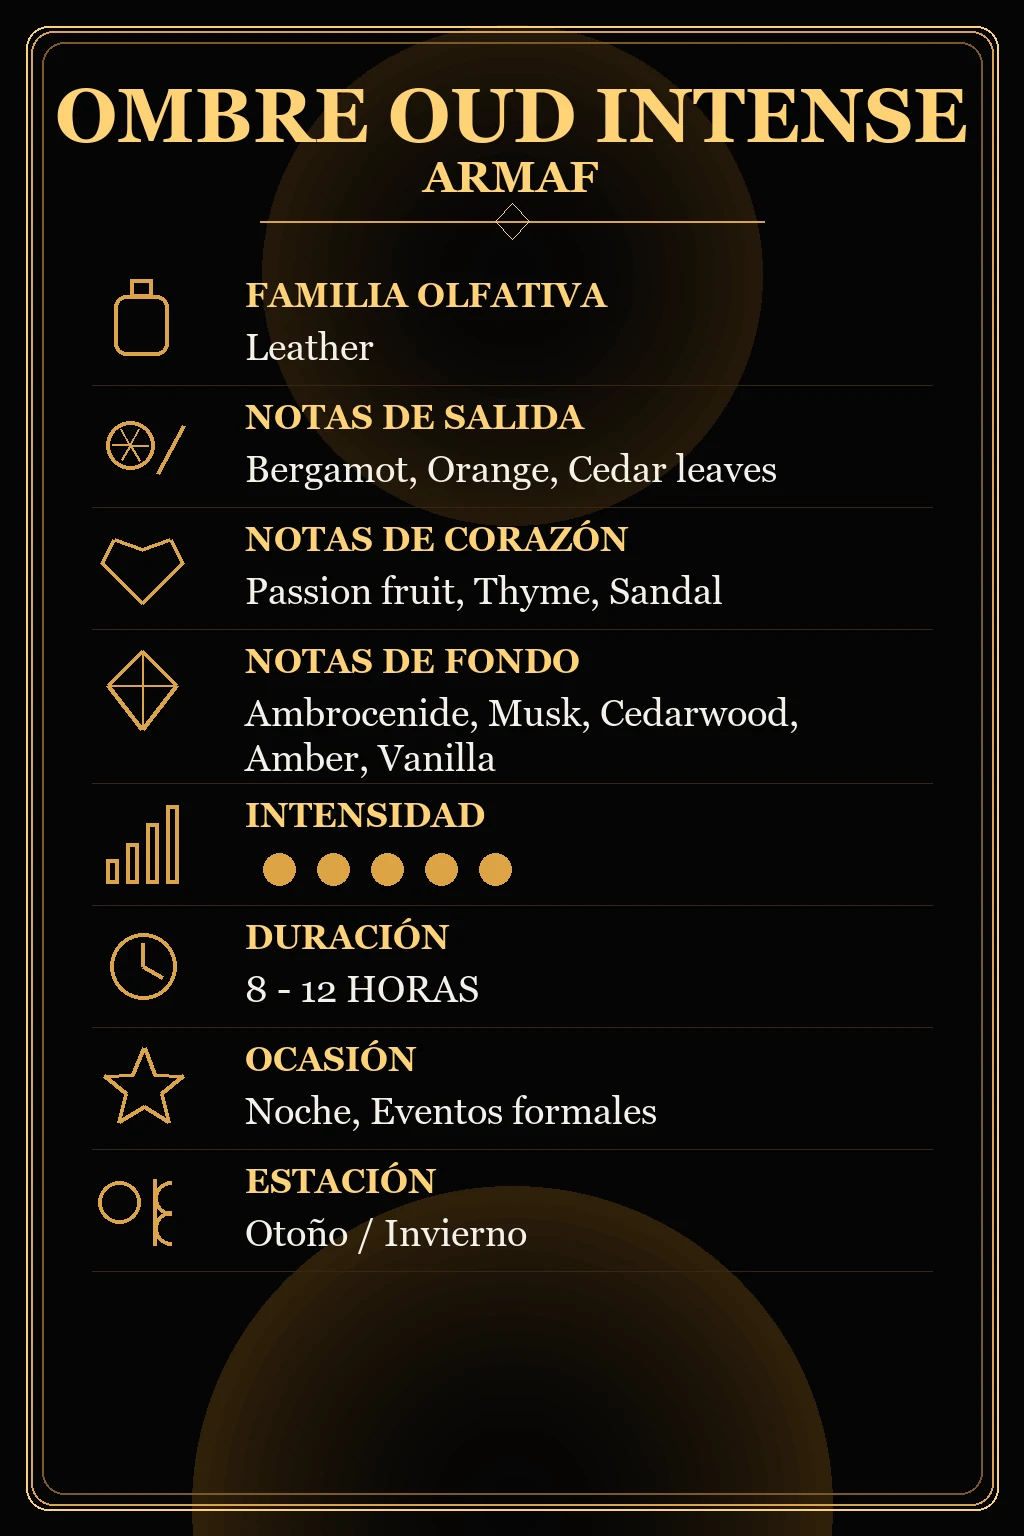
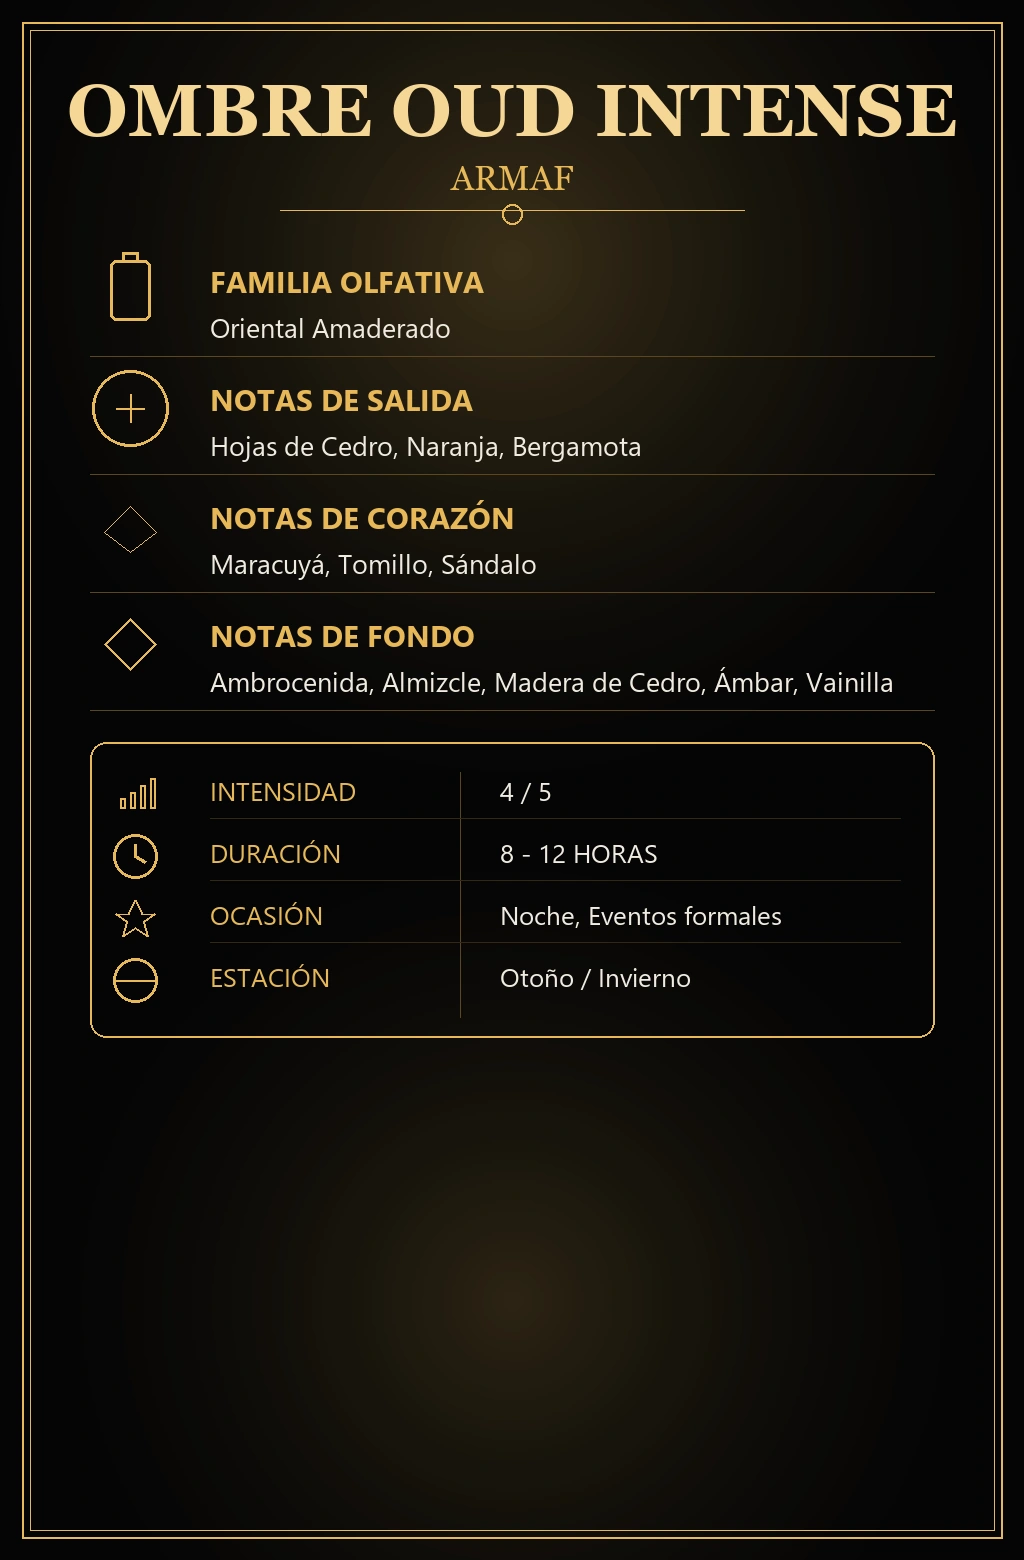
fix: corregir imagen de caracteristicas de Ombre Oud Intense
La imagen decia familia "Leather" y notas en ingles que no coincidian
con los datos en espanol del producto (Oriental Amaderado). Se
regenera con el desglose real verificado en Fragrantica, traducido.

diff --git a/tools/generate-club-de-nuit-ombre-oud-intense-characteristics.py b/tools/generate-club-de-nuit-ombre-oud-intense-characteristics.py
@@ -1,0 +1,149 @@
+from pathlib import Path
+from PIL import Image, ImageDraw, ImageFont
+
+
+ROOT = Path(__file__).resolve().parents[1]
+OUT = ROOT / "src/main/resources/static/img/arabe/car-club-de-nuit-ombre-oud-intense.webp"
+
+W, H = 1024, 1560
+BLACK = (5, 5, 5)
+GOLD = (231, 184, 87)
+GOLD_SOFT = (245, 214, 150)
+GOLD_DARK = (92, 70, 28)
+WHITE = (240, 235, 225)
+
+FONT_DIR = Path("C:/Windows/Fonts")
+GEORGIA = FONT_DIR / "georgia.ttf"
+GEORGIA_BOLD = FONT_DIR / "georgiab.ttf"
+SEGOE = FONT_DIR / "segoeui.ttf"
+SEGOE_BOLD = FONT_DIR / "segoeuib.ttf"
+
+
+def font(path: Path, size: int):
+    return ImageFont.truetype(str(path), size)
+
+
+def centered(draw, text, y, fnt, fill=WHITE):
+    bbox = draw.textbbox((0, 0), text, font=fnt)
+    draw.text(((W - (bbox[2] - bbox[0])) / 2, y), text, font=fnt, fill=fill)
+
+
+def wrap_text(draw, text, fnt, max_width):
+    lines = []
+    for raw in text.split("\n"):
+        words = raw.split()
+        line = ""
+        for word in words:
+            test = f"{line} {word}".strip()
+            if draw.textbbox((0, 0), test, font=fnt)[2] <= max_width:
+                line = test
+            else:
+                if line:
+                    lines.append(line)
+                line = word
+        if line:
+            lines.append(line)
+    return lines
+
+
+def draw_icon(draw, kind, cx, cy, small=False):
+    r = 22 if small else 38
+    if kind == "family":
+        draw.rounded_rectangle((cx - 20, cy - 30, cx + 20, cy + 30), radius=6, outline=GOLD, width=3)
+        draw.rectangle((cx - 8, cy - 38, cx + 8, cy - 28), outline=GOLD, width=3)
+    elif kind == "top":
+        draw.ellipse((cx - r, cy - r, cx + r, cy + r), outline=GOLD, width=3)
+        draw.line((cx - 14, cy, cx + 14, cy), fill=GOLD, width=2)
+        draw.line((cx, cy - 14, cx, cy + 14), fill=GOLD, width=2)
+    elif kind == "heart":
+        draw.polygon([(cx, cy - 20), (cx + 26, cy + 6), (cx, cy + 26), (cx - 26, cy + 6)], outline=GOLD)
+    elif kind == "base":
+        draw.polygon([(cx, cy - 26), (cx + 26, cy), (cx, cy + 26), (cx - 26, cy)], outline=GOLD, width=3)
+    elif kind == "bars":
+        for i, h in enumerate([10, 16, 23, 30]):
+            x = cx - 15 + i * 10
+            draw.rectangle((x, cy + 14 - h, x + 5, cy + 14), outline=GOLD, width=2)
+    elif kind == "clock":
+        draw.ellipse((cx - r, cy - r, cx + r, cy + r), outline=GOLD, width=3)
+        draw.line((cx, cy, cx, cy - 12), fill=GOLD, width=3)
+        draw.line((cx, cy, cx + 10, cy + 6), fill=GOLD, width=3)
+    elif kind == "star":
+        pts = [(cx, cy - 18), (cx + 6, cy - 5), (cx + 19, cy - 4), (cx + 8, cy + 4), (cx + 12, cy + 18),
+               (cx, cy + 10), (cx - 12, cy + 18), (cx - 8, cy + 4), (cx - 19, cy - 4), (cx - 6, cy - 5)]
+        draw.line(pts + [pts[0]], fill=GOLD, width=2)
+    elif kind == "season":
+        draw.ellipse((cx - r, cy - r, cx + r, cy + r), outline=GOLD, width=3)
+        draw.line((cx - r, cy, cx + r, cy), fill=GOLD, width=2)
+
+
+def line_block(draw, y, icon, title, body, title_font, body_font):
+    draw_icon(draw, icon, 130, y + 30)
+    draw.text((210, y), title, font=title_font, fill=GOLD)
+    yy = y + 48
+    for line in wrap_text(draw, body, body_font, 760):
+        draw.text((210, yy), line, font=body_font, fill=WHITE)
+        yy += 36
+    draw.line((90, yy + 12, 934, yy + 12), fill=GOLD_DARK, width=1)
+    return yy + 34
+
+
+def main():
+    img = Image.new("RGB", (W, H), BLACK)
+
+    glow = Image.new("RGBA", (W, H), (0, 0, 0, 0))
+    gd = ImageDraw.Draw(glow)
+    for r in range(560, 0, -10):
+        alpha = int(60 * (1 - r / 560) ** 1.6)
+        gd.ellipse((W // 2 - r, 260 - r, W // 2 + r, 260 + r), fill=(GOLD[0], GOLD[1], GOLD[2], alpha))
+    for r in range(480, 0, -10):
+        alpha = int(45 * (1 - r / 480) ** 1.6)
+        gd.ellipse((W // 2 - r, H - 260 - r, W // 2 + r, H - 260 + r), fill=(GOLD[0], GOLD[1], GOLD[2], alpha))
+    img = Image.alpha_composite(img.convert("RGBA"), glow).convert("RGB")
+    draw = ImageDraw.Draw(img)
+
+    draw.rectangle((22, 22, W - 22, H - 22), outline=GOLD, width=2)
+    draw.rectangle((30, 30, W - 30, H - 30), outline=GOLD, width=1)
+
+    title_font = font(GEORGIA_BOLD, 74)
+    brand_font = font(GEORGIA, 34)
+    h_font = font(SEGOE_BOLD, 30)
+    b_font = font(SEGOE, 27)
+    small_font = font(SEGOE, 26)
+
+    centered(draw, "OMBRE OUD INTENSE", 68, title_font, GOLD_SOFT)
+    centered(draw, "ARMAF", 158, brand_font, GOLD)
+    draw.line((280, 210, 744, 210), fill=GOLD, width=1)
+    draw.ellipse((502, 204, 522, 224), outline=GOLD, width=2)
+
+    y = 260
+    y = line_block(draw, y, "family", "FAMILIA OLFATIVA", "Oriental Amaderado", h_font, b_font)
+    y = line_block(draw, y, "top", "NOTAS DE SALIDA", "Hojas de Cedro, Naranja, Bergamota", h_font, b_font)
+    y = line_block(draw, y, "heart", "NOTAS DE CORAZÓN", "Maracuyá, Tomillo, Sándalo", h_font, b_font)
+    y = line_block(draw, y, "base", "NOTAS DE FONDO", "Ambrocenida, Almizcle, Madera de Cedro, Ámbar, Vainilla", h_font, b_font)
+
+    panel = (90, y + 10, 934, y + 305)
+    draw.rounded_rectangle(panel, radius=16, outline=GOLD, width=2)
+    draw.line((460, panel[1] + 30, 460, panel[3] - 20), fill=GOLD_DARK, width=1)
+
+    rows = [
+        ("bars", "INTENSIDAD", "4 / 5"),
+        ("clock", "DURACIÓN", "8 - 12 HORAS"),
+        ("star", "OCASIÓN", "Noche, Eventos formales"),
+        ("season", "ESTACIÓN", "Otoño / Invierno"),
+    ]
+    yy = panel[1] + 30
+    for icon, label, value in rows:
+        draw_icon(draw, icon, 135, yy + 22, small=True)
+        draw.text((210, yy), label, font=small_font, fill=GOLD)
+        draw.text((500, yy), value, font=small_font, fill=WHITE)
+        yy += 62
+        if yy < panel[3] - 20:
+            draw.line((210, yy - 16, 900, yy - 16), fill=(50, 40, 20), width=1)
+
+    OUT.parent.mkdir(parents=True, exist_ok=True)
+    img.save(OUT, "WEBP", quality=94, method=6)
+    print(OUT)
+
+
+if __name__ == "__main__":
+    main()
